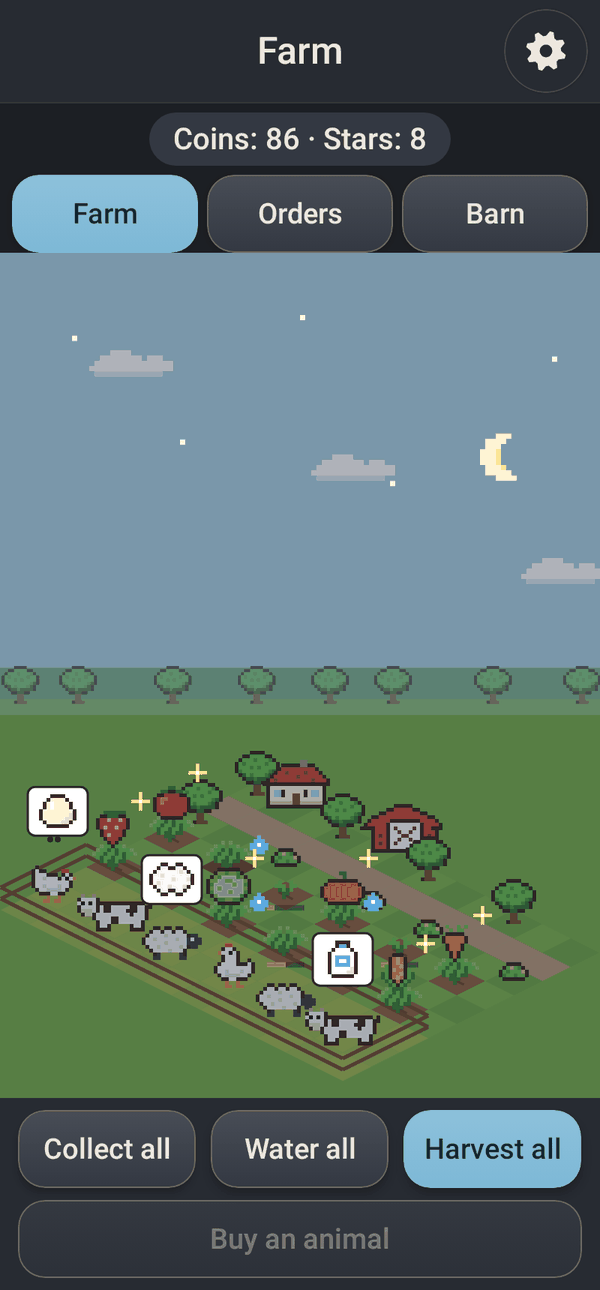
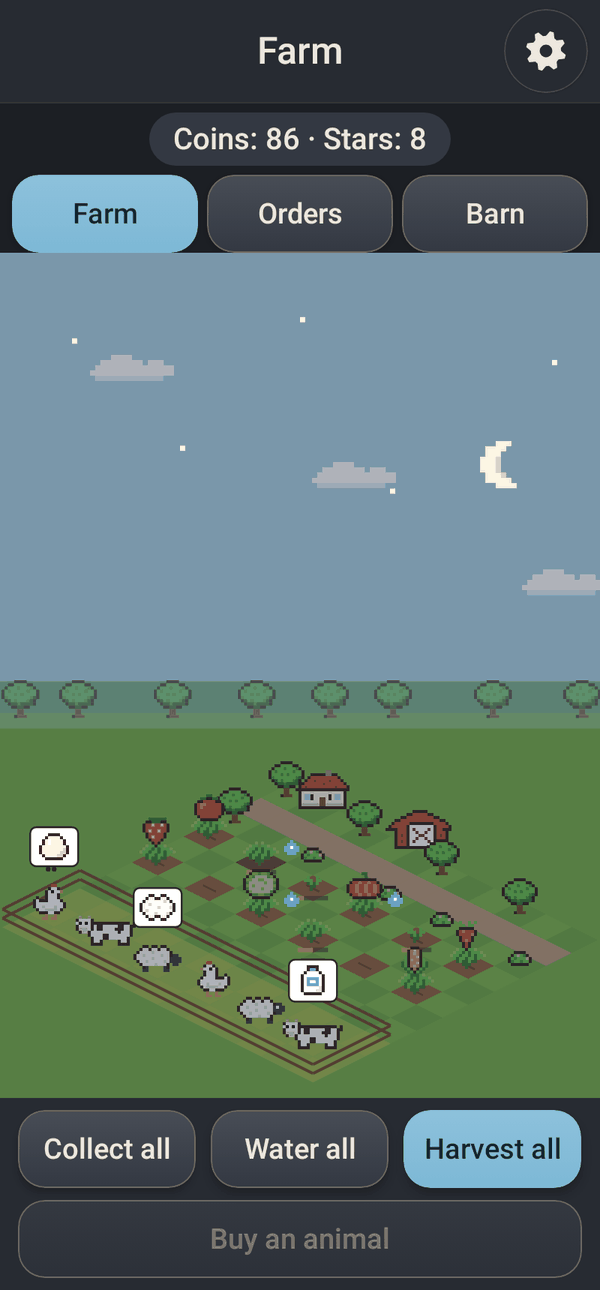
fix(farm): give the animals their own ground away from the beds
The paddock started right after the field, so the animals and their
bubbles were drawn over the crops and took taps meant for them. Two rows
of grass now lie between the field and the paddock.

Closes #83

diff --git a/app/src/test/java/io/github/fershibli/megagames/games/FarmTest.kt b/app/src/test/java/io/github/fershibli/megagames/games/FarmTest.kt
@@ -2,6 +2,7 @@ package io.github.fershibli.megagames.games
 
 import io.github.fershibli.megagames.games.farm.Animal
 import io.github.fershibli.megagames.games.farm.Crop
+import io.github.fershibli.megagames.games.farm.FarmMap
 import io.github.fershibli.megagames.games.farm.FarmRules
 import io.github.fershibli.megagames.games.farm.Pen
 import io.github.fershibli.megagames.games.farm.FarmWorld
@@ -132,5 +133,18 @@ class FarmTest {
         assertEquals(1, FarmRules.rescue(stuck.copy(barn = mapOf("egg" to 1))).coins)
         assertEquals(1, FarmRules.rescue(stuck.copy(pens = listOf(Pen("chicken", 0L)))).coins)
         assertEquals(30, FarmRules.rescue(FarmWorld()).coins)
+    }
+
+    @Test
+    fun theAnimalsStandOnTheirOwnGroundAwayFromTheBeds() {
+        val lastBedRow = FarmMap.plots.maxOf { it.second }
+        // A strip of grass lies between the field and the paddock, which holds every animal.
+        assertTrue(FarmMap.paddockRows.first > lastBedRow + 1)
+        FarmMap.pens.forEach { assertTrue(it.second in FarmMap.paddockRows) }
+        assertTrue(FarmMap.plots.none { it.second in FarmMap.paddockRows })
+        // A tap on a bed or an animal always finds that one, never a neighbour of the other kind.
+        val grid = FarmMap.grid(800f, 1200f, FarmMap.columns(FarmMap.plots.size, FarmMap.pens.size))
+        FarmMap.plots.forEachIndexed { i, (c, r) -> assertEquals(true to i, FarmMap.hit(grid, grid.center(c, r), FarmMap.plots.size, FarmMap.pens.size)) }
+        FarmMap.pens.forEachIndexed { i, (c, r) -> assertEquals(false to i, FarmMap.hit(grid, grid.center(c, r), FarmMap.plots.size, FarmMap.pens.size)) }
     }
 }

diff --git a/app/src/main/java/io/github/fershibli/megagames/games/farm/FarmPixels.kt b/app/src/main/java/io/github/fershibli/megagames/games/farm/FarmPixels.kt
@@ -30,8 +30,11 @@ import kotlin.math.max
 
 /** Layout of the farm in map cells (col runs down to the right, row down to the left). */
 object FarmMap {
-    /** Rows of the map: the lane and buildings at the back, the field, then the paddock in front. */
-    const val ROWS = 9
+    /**
+     * Rows of the map: the lane and buildings at the back, the field, a strip of grass, then the
+     * paddock in front. The grass keeps the animals (and their bubbles) clear of the beds.
+     */
+    const val ROWS = 11
 
     /**
      * Cells of the beds, in the order they are bought: the first six make a 3 × 2 field, and the
@@ -43,10 +46,10 @@ object FarmMap {
     )
 
     /** Cells of the animals, in a row inside the paddock in front of the field. */
-    val pens: List<Pair<Int, Int>> = listOf(0 to 7, 2 to 7, 4 to 7, 6 to 7, 8 to 7, 10 to 7)
+    val pens: List<Pair<Int, Int>> = listOf(0 to 9, 2 to 9, 4 to 9, 6 to 9, 8 to 9, 10 to 9)
 
     /** The paddock (fenced) covers these rows. */
-    val paddockRows = 6..8
+    val paddockRows = 8..10
 
     /** The lane at the back of the farm. */
     fun isLane(c: Int, r: Int) = r == 1

diff --git a/CHANGELOG.md b/CHANGELOG.md
@@ -87,6 +87,7 @@ All notable changes to this project are documented here. The format follows [Kee
 
 ### Fixed
 - **Farm: a new bed can no longer leave the farm stuck.** Buying one now asks first, with a picture of a bed growing from bare soil to the harvest, and needs something already sown, so there is always a harvest to sell; the new bed blinks for a few seconds to show where it went. A farm already left with nothing to sow, sell or collect gets the coins for one seed.
+- **Farm: the animals have their own ground.** A strip of grass now separates the paddock from the beds, so the animals and their bubbles no longer cover the crops or catch the taps meant for them.
 
 ## [1.0.0] - 2026-10-19
 
